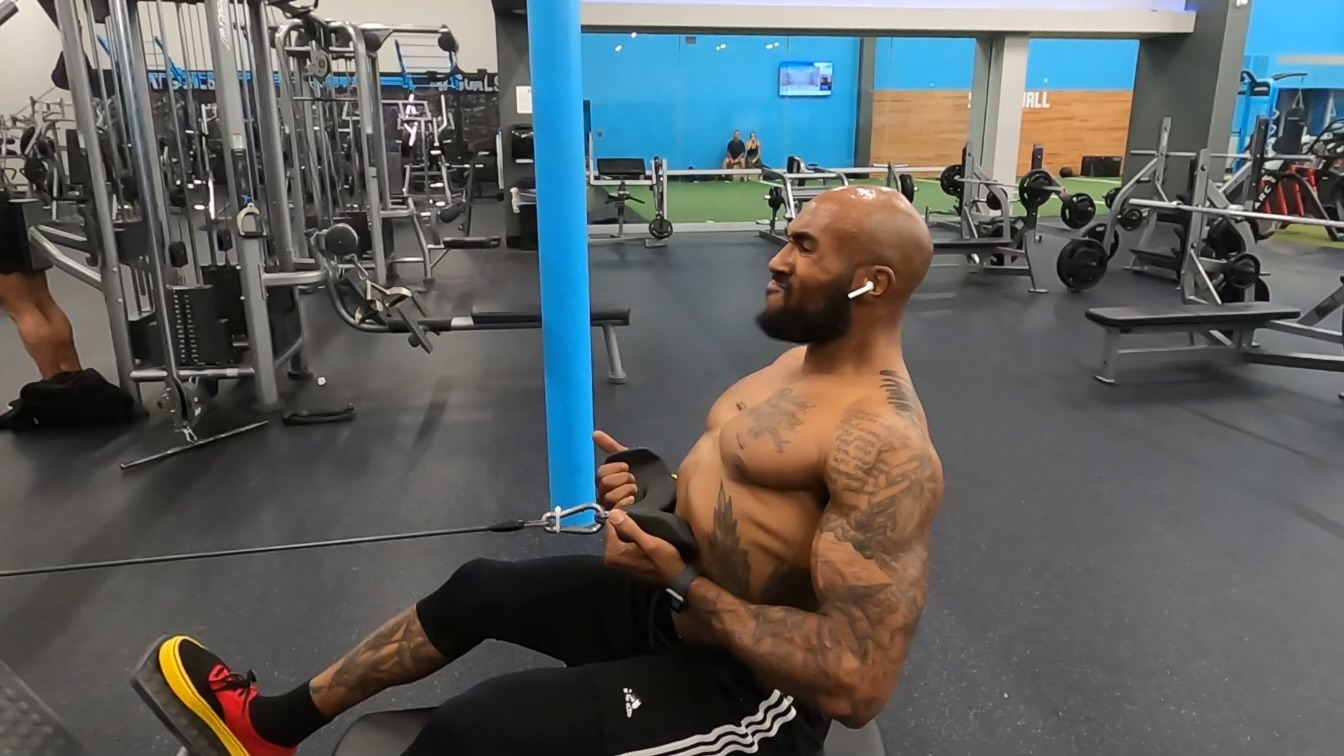
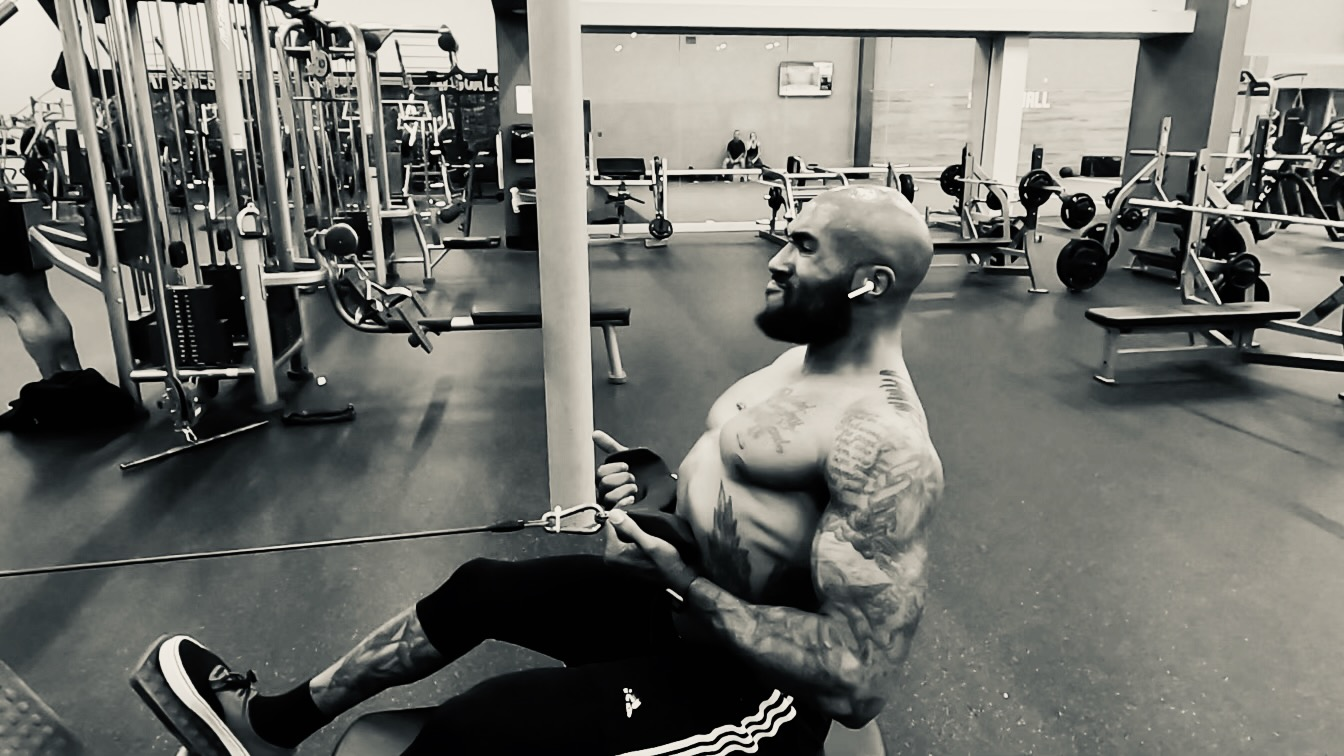
grid layout

diff --git a/index.html b/index.html
@@ -12,114 +12,79 @@
 
 <body>
     <header>
-        <div class="wrapper">
             <div class="logo">
-                <h1>Stank!
+                <h1>Stank Fitness
                 </h1>
-                <p>Fitness</p>
+                <p>ben bostick - Personal Trainer</p>
             </div>
-            <p>Ben Bostick - Personal Trainer</p>
-        </div>
     </header>
 
-        <section class="two">
-            <div class="column-1 box">
 
-            </div>
-            <div class="column-2 box">
                 <article>
-                        <p>My story starts back in High School, where my football career had garnered the attention of several
-                            college programs. As fate would have it, a broken ankle and torn ligaments would interfere with those
-                            opportunities and I was left only with a scholarship to the Naval Academy.</p>
-                    <p>I spent a year as a student-athlete for the Naval Academy Prep School but was expelled due to poor
-                        decisions off the field. A second chance presented itself with the football program of Campbellsville
-                        University in Kentucky. But, my performance lacked and I began to lose confidence in myself and my path.
-                    </p>
-                    <p>I ended up in Lexington, Kentucky where I had friends playing for its football program. Here I regressed
-                        into a life driven by weekend partying that would soon spill into weekday benders. A job as a bouncer at
-                        a local bar quickly evolved into a bartending job where everything I did revolved around alcohol and its
-                        consumption. A nasty escape cycle from my personal problems.</p>
-                    <p>It would take 10 years of this depression and stagnant living before I slowly made changes. A business
-                        opportunity with a good friend in Knoxville, Tennessee allowed me to change my environment and outlook.
-                    </p>
-                    <p>In this chapter, I returned to physical activity. Cleansing and training my body, mind and spirit. I
-                        understand the value of my progress and how it can be shared to help others. Stank Fitness is the
-                        embodiment of overcoming and pushing through whatever obstacles currently linger in your life. I want to
-                        help you prepare or maintain for whatever circumstances you have through the physical and mental
-                        conditioning of the body. Let’s work hard and make stank faces together!</p>
+                        
+                            <div class="box one">
+                                <p>My story starts back in High School, where my football career had garnered the attention of several
+                                    college programs. As fate would have it, a broken ankle and torn ligaments would interfere with those
+                                    opportunities and I was left only with a scholarship to the Naval Academy.</p>
+                                
+                            </div>
+                        <div class=" box two">
+                            <p>I spent a year as a student-athlete for the Naval Academy Prep School but was expelled due to poor
+                                decisions off the field. A second chance presented itself with the football program of Campbellsville
+                                University in Kentucky. But, my performance lacked and I began to lose confidence in myself and my path.
+                            </p>
+                        </div>
+
+                        
+                    <div class="box three">
+                        <p>I ended up in Lexington, Kentucky where I had friends playing for its football program. Here I regressed
+                            into a life driven by weekend partying that would soon spill into weekday benders. A job as a bouncer at
+                            a local bar quickly evolved into a bartending job where everything I did revolved around alcohol and its
+                            consumption. A nasty escape cycle from my personal problems.</p>
+                    </div>
+                    <div class="box four">
+                        <p>It would take 10 years of this depression and stagnant living before I slowly made changes. A business
+                            opportunity with a good friend in Knoxville, Tennessee allowed me to change my environment and outlook.
+                        </p>
+                    </div>
+                    <div class="box five">
+                        <p>In this chapter, I returned to physical activity. Cleansing and training my body, mind and spirit. I
+                            understand the value of my progress and how it can be shared to help others. Stank Fitness is the
+                            embodiment of overcoming and pushing through whatever obstacles currently linger in your life. I want to
+                            help you prepare or maintain for whatever circumstances you have through the physical and mental
+                            conditioning of the body. Let’s work hard and make stank faces together!</p>
+                    </div>
+
+                    <div class="box six">
+
+                    </div>
                 </article>
             </div>
         </section>
 
 
-        <section>
-            <h2>Train with Ben</h2>
-            <p>
-                Etiam id efficitur sapien. Ut diam metus, semper et pulvinar in, varius ultrices justo. Nunc sit amet metus
-                et lectus ultrices ornare sit amet ut orci. Interdum et lipsum malesuada fames ac ante ipsum primis in
-                faucibus. Integer porta nibh sed augue placerat fringilla. Nullam ac dapibus erat pellentesque habitant
-                morbi tristique senectus et netus et malesuada fames ac turpis egestas. Praesent metus lacus posuere sed mi
-                sed egestas tristique erat vehicula viverra.
-            </p>
-            <button>
-                view resume
-            </button>
-        </section>
-    <section>
-        <h2>Pricing</h2>
-        <table>
-            <tbody>
-                <tr>
-                    <td>Fitness test</td>
-                    <td>Free</td>
-                </tr>
-                <tr>
-                    <td>1 Workout</td>
-                    <td>$50</td>
-                </tr>
-                <tr>
-                    <td>5 Workouts</td>
-                    <td>$225</td>
-                </tr>
-                <tr>
-                    <td>10 Workouts</td>
-                    <td>$400</td>
-                </tr>
-                <tr>
-                    <td>20+ Workouts</td>
-                    <td>
-        
-                        <button><a href="#">Contact me</a></button></td>
-                </tr>
-            </tbody>
-        </table>
-    </section>
-
-    <section>
-        <blockquote>
-            "Ben is the best trainer I’ve worked with. He is very professional, passionate, and thoughtful. His knowledge in fitness, health, and nutrition is incredible. I’m stronger and healthier than ever.”
-        </blockquote>
-    </section>
-
 <footer>
     
-    <div>
+    <div class="info">
         <h3>
-            Let's Get it!
+            Let's Go!
         </h3>
         <p>
-            <a href = "mailto: abc@example.com">Send Email</a>
+            <a href = "mailto: benbostick@stankfitness.com">benbostick@stankfitness.com</a>
         </p>
         
-        <p>
-            <a href="tel:123456789">123456789</a>
-        </p>
+        <div class="cover">
+
+            <div class="logo">
+                <h1>Stank Fitness
+                </h1>
+                <p>ben bostick - Personal Trainer</p>
+            </div>
+        </div>
+       
         
         
-        <address>
-        123 Any St
-        Knoxville, Tennessee
-        </address>
+
         
     </div>
 </footer>

diff --git a/style.css b/style.css
@@ -1,87 +1,139 @@
+
 :root {
-    font-family: monospace;
-    font-size: calc(1ex + 1vw + 1vh);
+  font-size: calc(1ex + 1vw + 1vh);
 }
+
 
 body {
-    font-family: Arial, Helvetica, sans-serif;
+  margin: 0;
+  font-family: 'Courier New', Courier, monospace;
+  height: 100%;
 }
-
 
 .logo {
-    text-transform: uppercase;
+  margin: 0;
+  text-transform: uppercase;
+  text-decoration: underline dotted 3px;
+  text-align: center;
+
 }
 
-.logo>p,
-h1 {
-    margin: 0;
-}
+
 
 header {
-    background-image: url(./images/1.jpeg);
-    min-height: 100vh;
-    background-repeat: no-repeat;
-    background-size: cover;
-    filter: grayscale(100%);
-    background-position: center center;
+  display: flex;
+  justify-content: center;
+  color: red;
+
 }
 
-header div.wrapper {
-    background: rgba(0, 0, 0, 0.5);
-    height: 100vh;
-    width: 100%;
-    display: -webkit-box;
-    display: -ms-flexbox;
-    display: flex;
-    -webkit-box-orient: vertical;
-    -webkit-box-direction: normal;
-    -ms-flex-flow: column nowrap;
-    flex-flow: column nowrap;
-    color: #fff;
-    padding: 1vh 30vw 1vh 10vw;
-    -webkit-box-pack: center;
-    -ms-flex-pack: center;
-    justify-content: center;
+.cover {
+  background-image: url(/images/1.jpeg);
+  background-repeat: no-repeat;
+  min-height: 100vh;
+  background-size: cover;
+  background-attachment: fixed;
+  filter: grayscale(100%);
+  color: whitesmoke;
+  background-position: center center;
+  display: flex;
+  justify-content: baseline;
+  flex-direction: column;
+}
+
+article {
+  display: grid;
+  grid-template-columns:repeat(auto-fit, minmax(800px, 1fr));
+  grid-template-rows: auto;
+  text-align: justify;
+text-justify: distribute;
+text-align-last: left;
+font-weight: 900;
+
+}
+
+p {
+  display: block;
+  margin: 4em;
 }
 
 img {
-    filter: grayscale(100);
-}
-
-.two {
-    display: flex;
-}
-
-.two {
-    display: flex;
-    width: 100%;
-}
-
-.column-1 {
-    flex-shrink: 0;
-    /* shrinks to 0 to apply 70% width*/
-    flex-basis: 50%;
-    /* sets initial width to 70%*/
-    background-image: url(./images/2.jpeg);
-    filter: grayscale(100);
-}
-
-.column-2 {
-    color: white;
-    background-color: black;
-
+  max-width: 100%;
+  height: auto;
 }
 
 .box {
-    padding: 30px;
+background-size: cover;
+background-position: center center;
+min-height: 40vh;
+display: block;
+
 }
 
-@media only screen and (max-width: 900px) {
-    .two {
-        flex-direction: column;
-    }
 
-    .box {
-        margin: 0 0 1rem;
-    }
+.two {
+    background-image: url(/images/4.jpeg);
+    color: orangered;
+
+
 }
+
+.one {
+  color: orangered;
+}
+
+
+
+.three {
+  color: orangered;
+
+}
+
+.four {
+  background-image: url(/images/3.jpeg);
+    color: blue;
+  
+}
+
+.five {
+
+  color: blue;
+}
+
+.six {
+  color: blue;
+  background-image: url(/images/5.jpeg);
+}
+
+address {
+  margin: 0;
+}
+
+
+footer {
+  color: red;
+  background-repeat: no-repeat;
+  background-size: cover;
+  width: 100vw;
+  text-align: center;
+  margin-top: 9rem;
+  min-height: 90vh;
+}
+
+
+.info > p {
+  margin: 0;
+
+}
+
+
+@media screen and (max-width: 600px) {
+
+
+  article {
+    display: flex;
+    flex-direction: column;
+  }
+}
+
+
